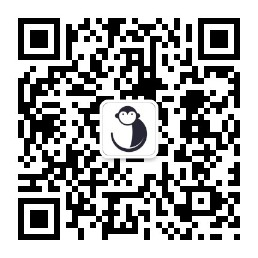
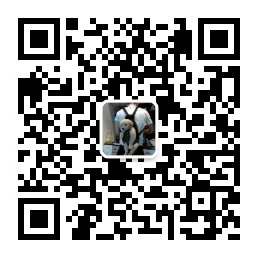
布局调整

diff --git a/_includes/sidebar-qrcode.html b/_includes/sidebar-qrcode.html
@@ -1,4 +1,4 @@
-{% if site.url contains 'mazhuang.org' %}
+{% if site.url contains 'yejg.top' %}
 <h3>欢迎关注我的微信公众号</h3>
-<img style="border:1px solid #dddddd;height:192px;width:192px" src="{{ site.url }}/assets/images/qrcode.jpg" alt="闷骚的程序员" />
+<img style="border:1px solid #dddddd;height:192px;width:192px" src="{{ site.url }}/assets/images/qrcode.jpg" alt="钢仔" />
 {% endif %}

diff --git a/_layouts/page.html b/_layouts/page.html
@@ -31,6 +31,7 @@ layout: default
             </div>
             <div class="column one-third">
                 {% include sidebar-search.html %}
+                {% include sidebar-categories-nav.html %}
                 <!-- {% include sidebar-popular-repo.html %} -->
             </div>
         </div>

diff --git a/pages/404.md b/pages/404.md
@@ -7,30 +7,6 @@ comments: false
 permalink: /404.html
 ---
 
-你来到这个页面，通常有两个原因。
-
-## 一、链接错误
-
-原因：博客搬迁造成的旧链接失效。
-
-例子：《中文文案排版指北（简体中文版）》的链接是
-
-```
-http://mzlog.com/wiki/chinese-copywriting-guidelines/
-```
-
-请修改成
-
-```
-https://mazhuang.org/wiki/chinese-copywriting-guidelines/
-```
-
-改动要点：将域名 `mzlog.com` 改成 `mazhuang.org`。
-
-**备用办法：** 在「[分类](/categories/)」中找。
-
-## 二、维度攻击
-
 不明力量入侵，你想要访问的页面被摧毁了。
 
 <!----------------------------------------------------------------

diff --git a/_posts/2018-07-09-feign-client-parameter-transfer.md b/_posts/2018-07-09-feign-client-parameter-transfer.md
@@ -33,7 +33,7 @@ Fegin传对象的时候，需要加@RequestBody注解，如下：
 @RequestMapping("/demo-service/test3")
 public String test3(@RequestBody DemoServiceUser user);
 ```
-注意，==服务提供者的Controller的接收参数前也需要加@RequestBody注解==
+注意，服务提供者的Controller的接收参数前也需要加@RequestBody注解
 
 ```java
 @RequestMapping("/test3")
